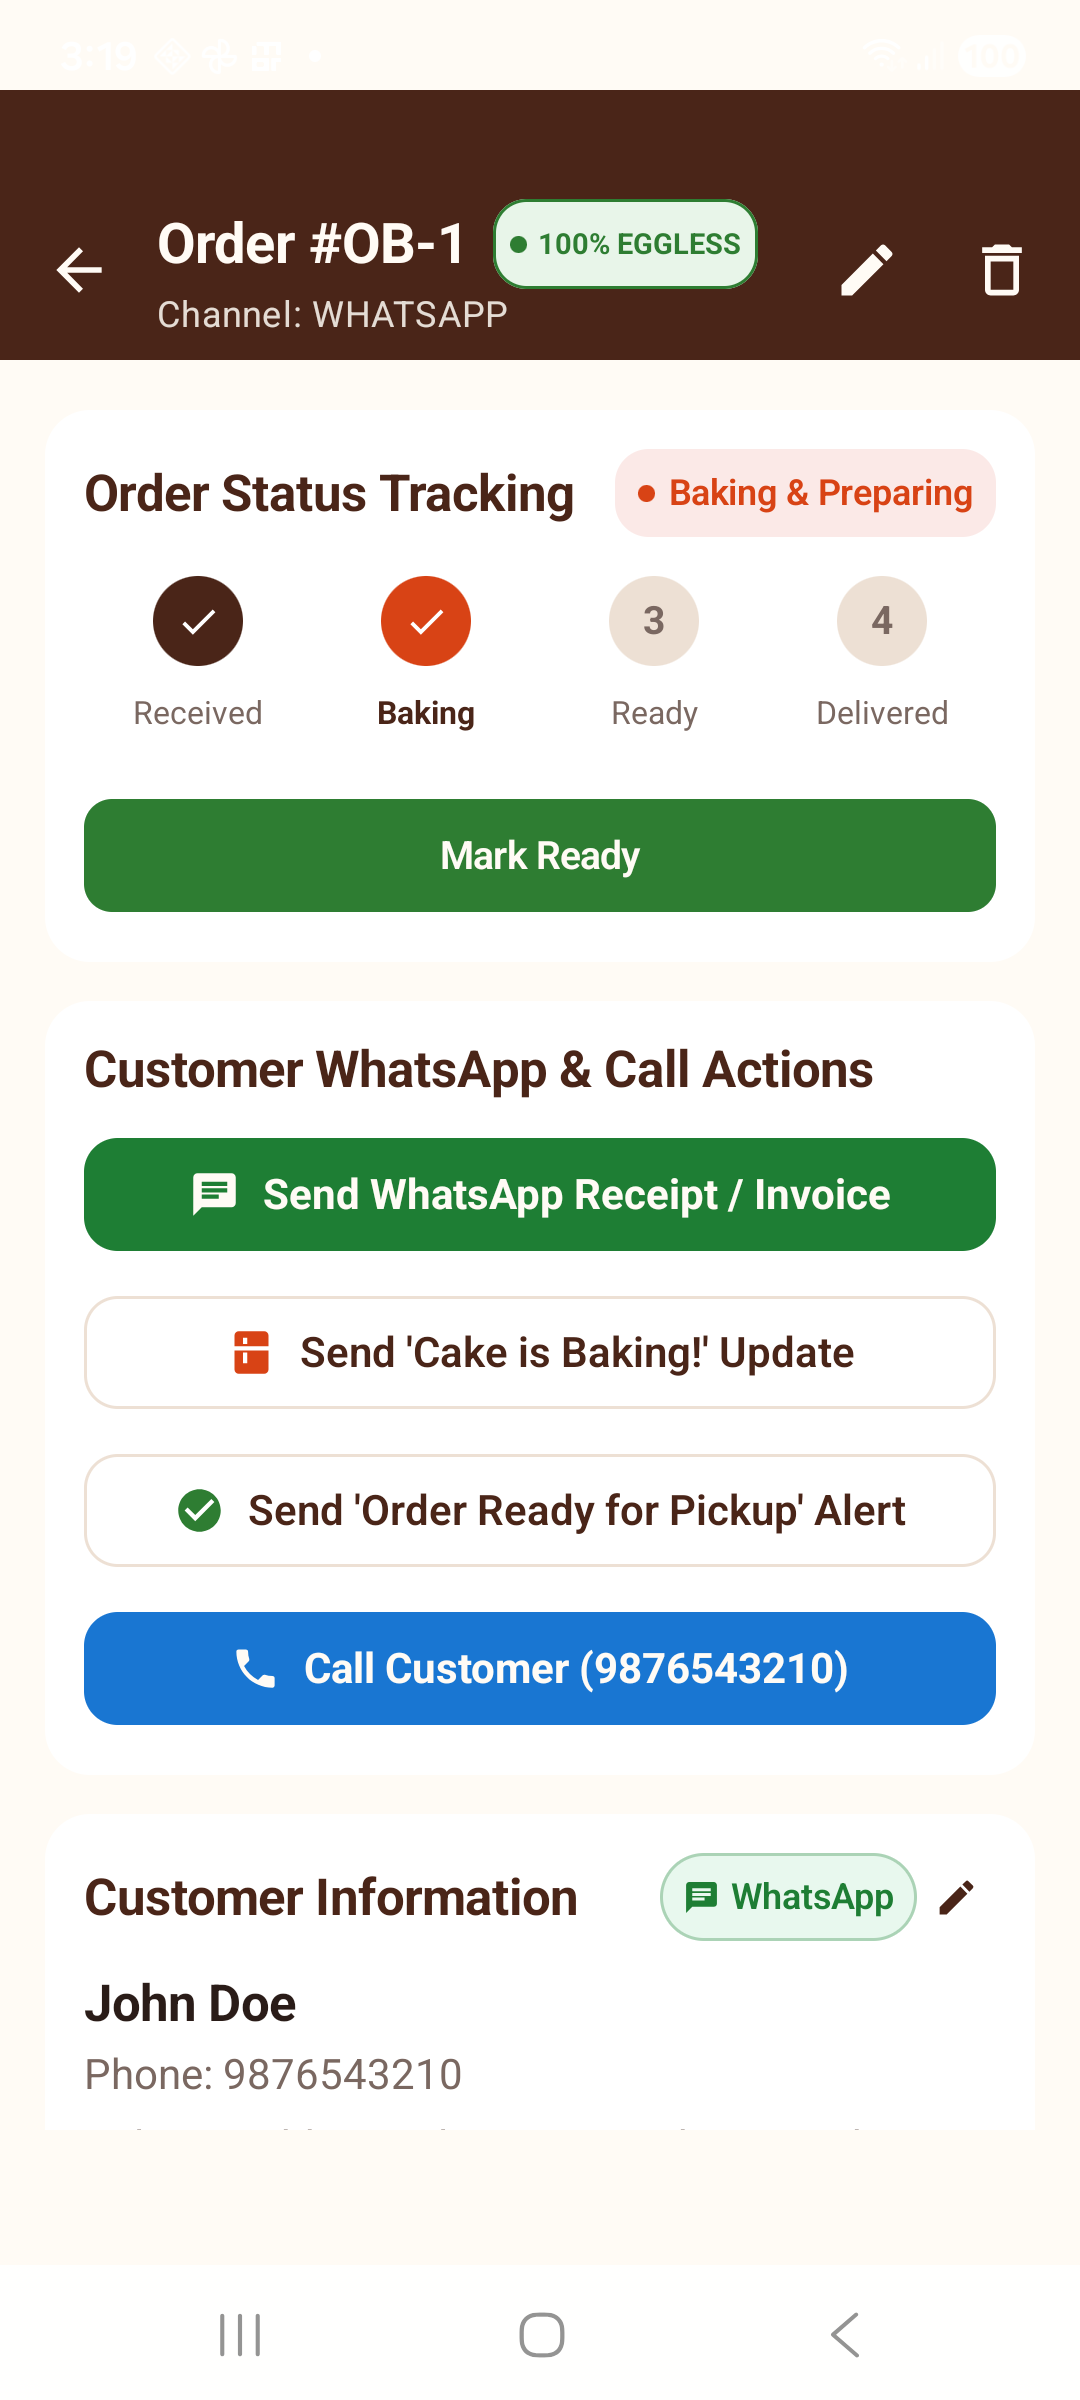
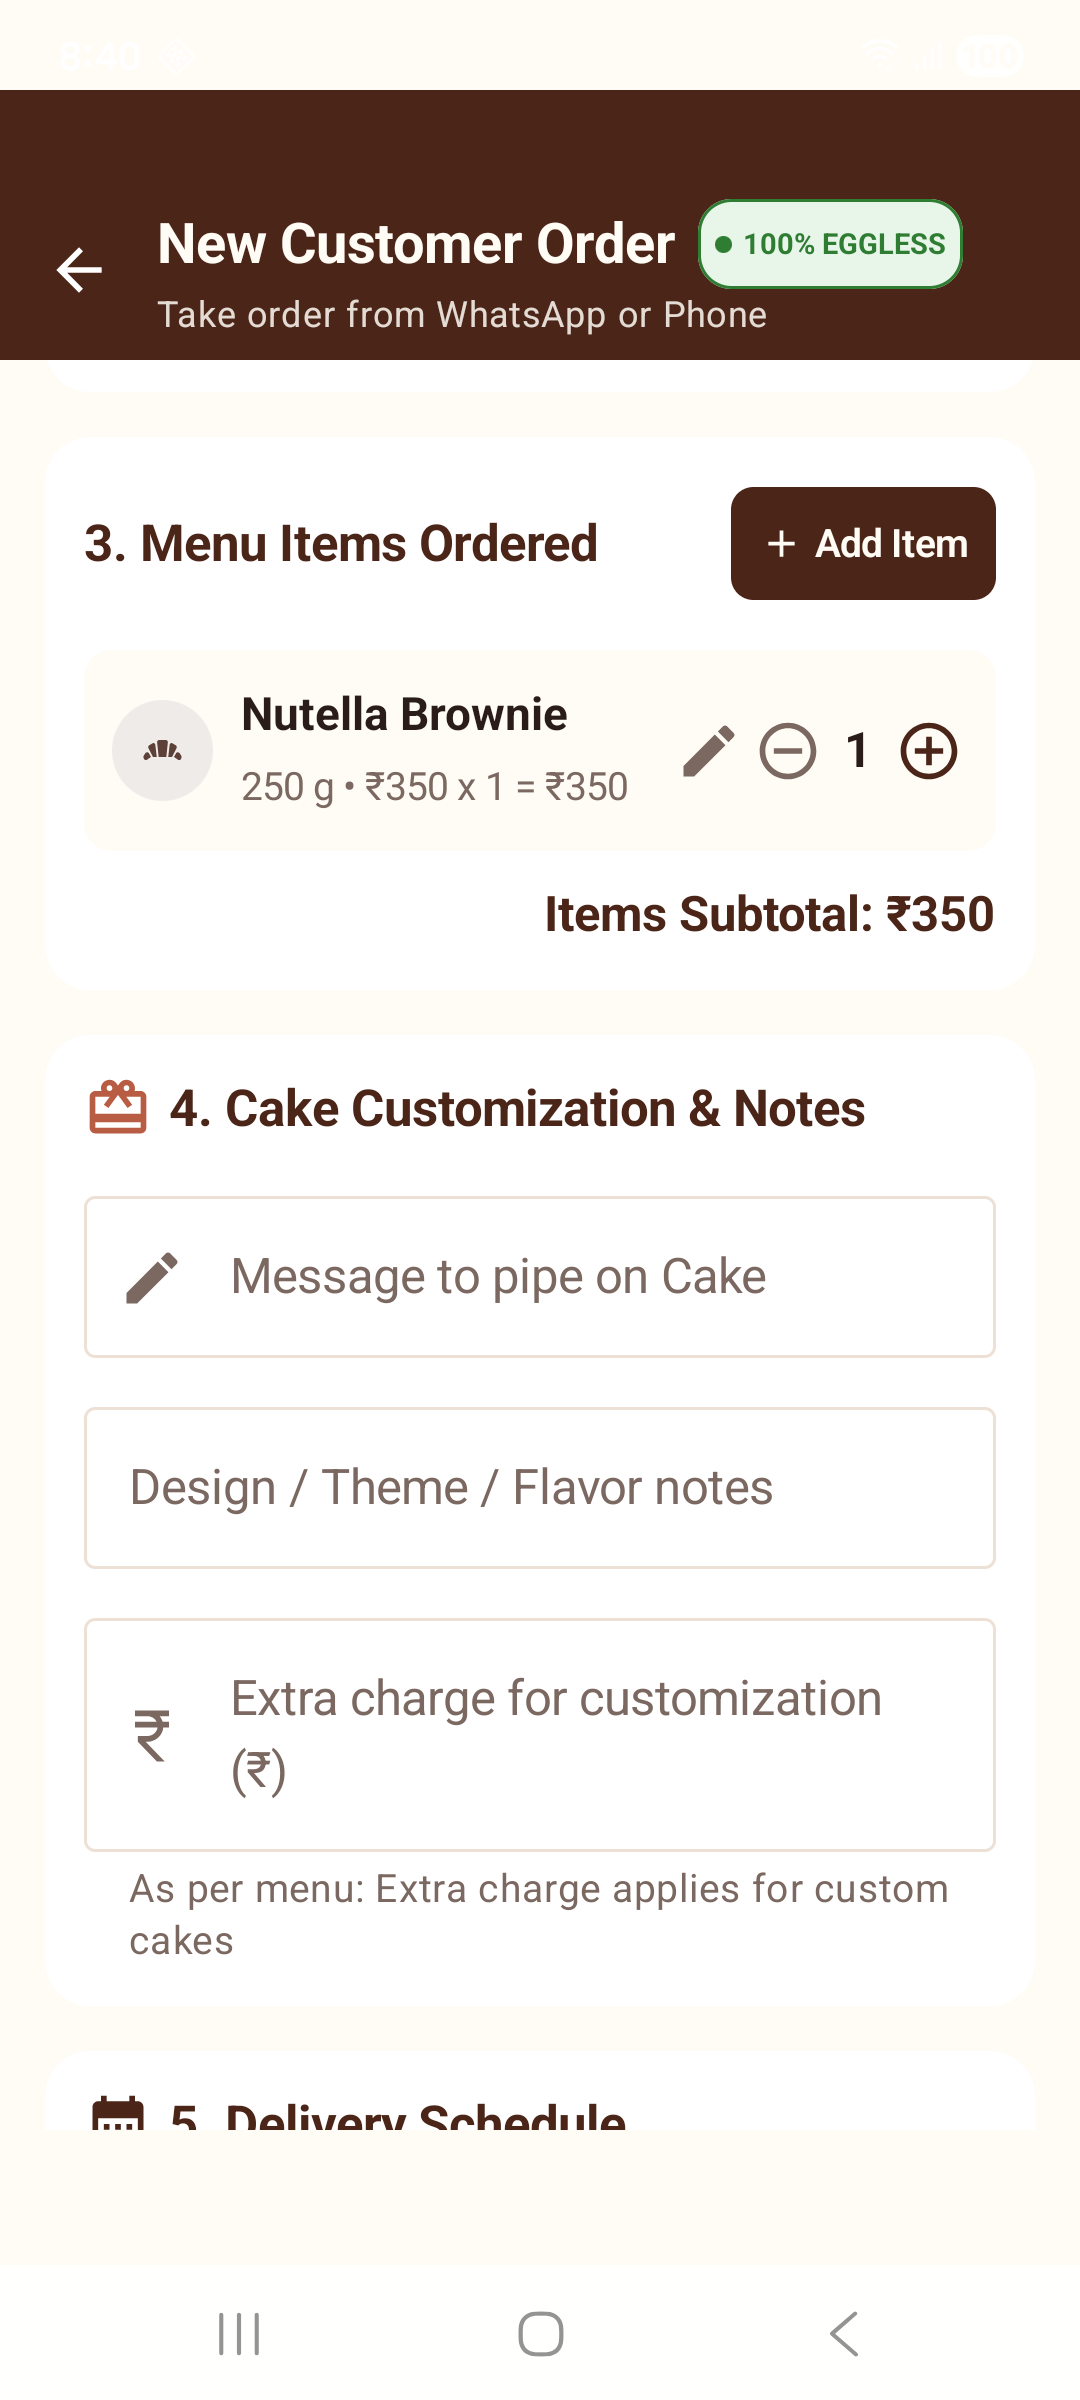
fix: resolve Net Banking payment mode display and editing
- Updated CreateOrderScreen to render mode.displayName ('Net Banking') on payment mode filter chips instead of raw enum identifier ('NET_BANKING').
- Updated OrderDetailScreen to map raw payment mode strings to friendly display names.
- Added PaymentMode selection chips to EditOrderDialog so payment mode can be updated when editing orders.

diff --git a/app/src/main/java/com/ovenlybytes/app/ui/screens/orders/OrderDetailScreen.kt b/app/src/main/java/com/ovenlybytes/app/ui/screens/orders/OrderDetailScreen.kt
@@ -5,6 +5,7 @@ import android.widget.DatePicker
 import androidx.compose.foundation.BorderStroke
 import androidx.compose.foundation.background
 import androidx.compose.foundation.border
+import androidx.compose.foundation.horizontalScroll
 import androidx.compose.foundation.layout.*
 import androidx.compose.foundation.lazy.LazyColumn
 import androidx.compose.foundation.rememberScrollState
@@ -424,12 +425,29 @@ fun OrderDetailScreen(
                             Text(Formatters.formatCurrency(order.totalAmount), fontWeight = FontWeight.Bold, fontSize = 16.sp, color = PrimaryCocoa)
                         }
 
+                        Spacer(modifier = Modifier.height(6.dp))
+
                         Row(
                             modifier = Modifier.fillMaxWidth(),
                             horizontalArrangement = Arrangement.SpaceBetween
                         ) {
                             Text("Advance Paid:", color = AdvancePaidColor)
                             Text(Formatters.formatCurrency(order.advancePaid), color = AdvancePaidColor, fontWeight = FontWeight.SemiBold)
+                        }
+
+                        val paymentModeEnum = remember(order.paymentMode) {
+                            com.ovenlybytes.app.model.PaymentMode.entries.find {
+                                it.name.equals(order.paymentMode, ignoreCase = true) ||
+                                it.displayName.equals(order.paymentMode, ignoreCase = true)
+                            }
+                        }
+                        val paymentModeDisplay = paymentModeEnum?.displayName ?: order.paymentMode.replace("_", " ").lowercase().replaceFirstChar { it.uppercase() }
+                        Row(
+                            modifier = Modifier.fillMaxWidth(),
+                            horizontalArrangement = Arrangement.SpaceBetween
+                        ) {
+                            Text("Payment Mode:", color = TextSecondary)
+                            Text(paymentModeDisplay, color = TextSecondary, fontWeight = FontWeight.SemiBold)
                         }
 
                         Row(
@@ -779,6 +797,23 @@ fun EditOrderDialog(
                             Text("Balance Due", fontSize = 10.sp, color = TextSecondary)
                             Text(Formatters.formatCurrency(balanceDue), fontWeight = FontWeight.Bold, fontSize = 14.sp, color = BalanceDueColor)
                         }
+                    }
+                }
+
+                // Payment Mode Selector in Edit Dialog
+                Text("Payment Mode", fontSize = 12.sp, fontWeight = FontWeight.SemiBold, color = TextSecondary)
+                Row(
+                    modifier = Modifier
+                        .fillMaxWidth()
+                        .horizontalScroll(rememberScrollState()),
+                    horizontalArrangement = Arrangement.spacedBy(8.dp)
+                ) {
+                    PaymentMode.entries.forEach { mode ->
+                        FilterChip(
+                            selected = paymentMode == mode,
+                            onClick = { paymentMode = mode },
+                            label = { Text(mode.displayName, fontSize = 11.sp, fontWeight = if (paymentMode == mode) FontWeight.Bold else FontWeight.Normal) }
+                        )
                     }
                 }
             }

diff --git a/app/src/main/java/com/ovenlybytes/app/ui/screens/orders/CreateOrderScreen.kt b/app/src/main/java/com/ovenlybytes/app/ui/screens/orders/CreateOrderScreen.kt
@@ -1124,15 +1124,16 @@ fun CreateOrderScreen(
                         Text("Payment Mode", fontSize = 12.sp, fontWeight = FontWeight.SemiBold, color = TextSecondary)
                         Spacer(modifier = Modifier.height(4.dp))
                         Row(
-                            modifier = Modifier.fillMaxWidth(),
+                            modifier = Modifier
+                                .fillMaxWidth()
+                                .horizontalScroll(rememberScrollState()),
                             horizontalArrangement = Arrangement.spacedBy(8.dp)
                         ) {
-                            PaymentMode.values().forEach { mode ->
+                            PaymentMode.entries.forEach { mode ->
                                 FilterChip(
                                     selected = paymentMode == mode,
                                     onClick = { paymentMode = mode },
-                                    label = { Text(mode.name, fontSize = 11.sp) },
-                                    modifier = Modifier.weight(1f)
+                                    label = { Text(mode.displayName, fontSize = 11.sp, fontWeight = if (paymentMode == mode) FontWeight.Bold else FontWeight.Normal) }
                                 )
                             }
                         }
